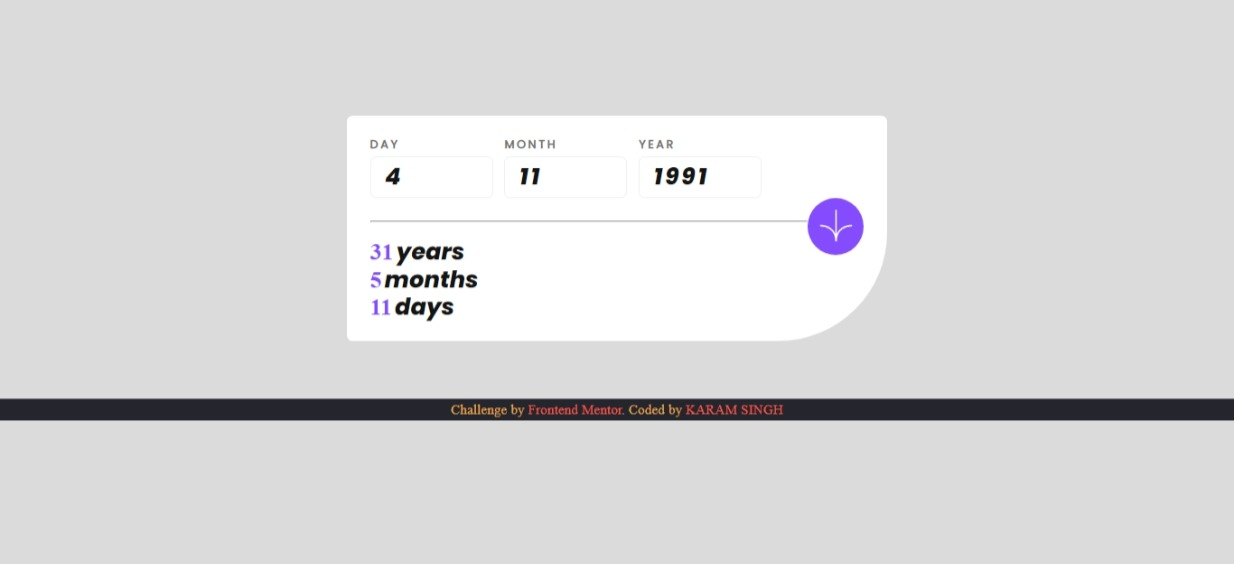
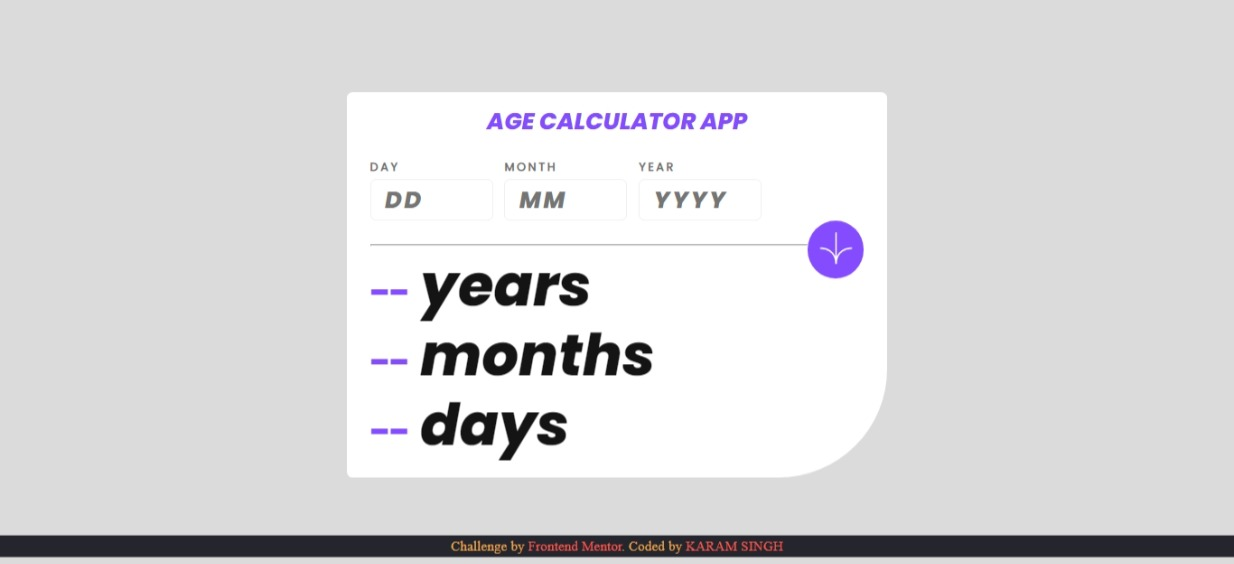
update

diff --git a/style.css b/style.css
@@ -26,7 +26,7 @@ body{
 .site{
     text-align: start;
     padding: 5rem 30rem;
-    margin-top: 5rem;
+    margin-top: 3rem;
 }
 
 .app{
@@ -35,10 +35,19 @@ body{
     border-radius: 8px 8px 150px 8px;
 }
 
+.site-h1{
+    color: hsl(259, 100%, 65%);
+    font-size: 2rem;
+    font-weight: 800;
+    font-family: 'secondFont';
+    text-align: center;
+    text-transform: uppercase;
+}
+
 .info{
     display: flex;
     gap: 1rem;
-
+    margin-top: 3rem;
 }
 
 .birth{
@@ -105,17 +114,24 @@ hr{
 
 .cal{
     margin-top: 2rem;
+    display: flex;
+    flex-direction: column;
+    gap: 4rem;
+    padding-bottom: 2rem;
 }
 
 .detail{
+    display: flex;
     margin-top: 1rem;
+    gap: 1rem;
+    
 }
 
 .detail-span{
     display: inline-block;
     color: hsl(259, 100%, 65%);
     font-weight: 800;
-    font-size: 2rem;
+    font-size: 5rem;
 }
 
 .time-span{
@@ -123,7 +139,7 @@ hr{
     display: inline;
     color: hsl(0, 0%, 8%);
     font-weight: 800;
-    font-size: 2rem;
+    font-size: 5rem;
 }
 
 /* ======================== End Main Area ================ */
@@ -173,6 +189,14 @@ hr{
         padding: 1rem;
     }
 
+    .site-h1{
+        color: hsl(259, 100%, 65%);
+        font-size: 1.5rem;
+        font-weight: 800;
+        font-family: 'secondFont';
+        text-align: center;
+    }
+
     .icon-btn{
         position: absolute;
         float: none;
@@ -196,6 +220,10 @@ hr{
         width: 90px;
         font-size: 16px;
         padding: 0.5rem;
+    }
+
+    .detail-span, .time-span{
+        font-size: 3rem;
     }
     
 }

diff --git a/index.html b/index.html
@@ -11,9 +11,9 @@
 <body>
       <!-- ===========================START MAIN AREA======================= -->
       <main class="site">
-        <h1 class="site-h1" style="display: none;">Age Calculator app</h1>
         <div class="app">
-        <!-- ===========================START Info AREA======================= -->
+          <!-- ===========================START Info AREA======================= -->
+          <h1 class="site-h1">Age Calculator app</h1>
         <div class="info">
           <div class="birth">
             <span class="birth-span" id="daySpan">Day</span>
